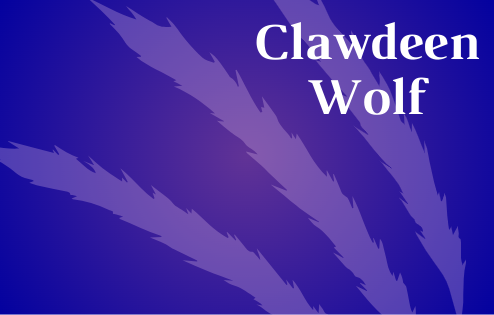
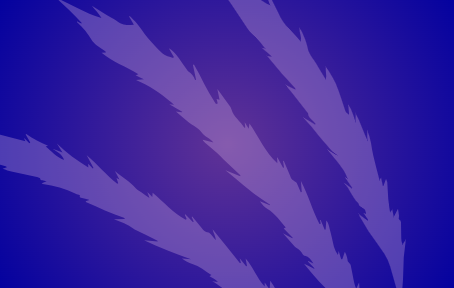
Add files via upload

Changed region(s): [[0.0, 0.0, 1.0, 1.0]]

diff --git a/index.html b/index.html
@@ -57,12 +57,8 @@
                     <img src="img/image (1).png" class="rounded-pill" width="273" height="331" loading="lazy">
                 </div>
                 <div class="col-5">
-                    <h2>O que foi a Tropicália?</h2>
-                    <p class="p-2">A Tropicália, também conhecida como Tropicalismo, foi um movimento cultural
-                        brasileiro que surgiu na década de 1960, tendo seu auge entre 1967 e 1968. Esse movimento
-                        abrangeu várias expressões artísticas, como a música, o cinema, o teatro e as artes plásticas, e
-                        teve como principal característica a mistura de elementos da cultura brasileira tradicional com
-                        influências estrangeiras, especialmente do rock e da música pop. Fonte: Site Toda a matéria</p>
+                    <h2>Quem é Clawdeen-Wolf?</h2>
+                    <p class="p-2"></p>
                 </div>
             </div>
         </section>

diff --git a/styles.css b/styles.css
@@ -2,10 +2,10 @@
 @import url('https://fonts.googleapis.com/css2?family=Lemon&display=swap');
 
 :root {
-    --laranja-claro: #FF862A;
+    --laranja-claro: #982aff;
     --alto-contraste-fundo: #000000;
-    --alto-contraste-texto: #ffffff;
-    --alto-contraste-link: #ffd700;
+    --alto-contraste-texto: #dca9fd;
+    --alto-contraste-link: #ff00c8;
 }
 
 body {
@@ -24,7 +24,7 @@ section {
 
 
 .nav-link {
-    color: #CB6D43;
+    color: #4a0ed8;
     font-weight: 600;
 }
 
@@ -36,7 +36,7 @@ section {
     background-position: right;
     border-radius: 80px;
     width: 100%;
-    height: 800px;
+    height: 606px;
     padding: 40px;
     margin: 0 auto;
 }
@@ -45,11 +45,17 @@ section {
 .img-inicio {
     position: absolute;
     right: 0;
-    top: 40rem;
-    width: 20rem;
+    top: 18rem;
+    width: 45rem;
     height: auto;
 }
 
+.img-fluid {
+    right: 20rem;
+    top: 24rem;
+    width: 300px;
+    height: 650px; 
+}
 
 .esquerda-conteudo {
     display: flex;
